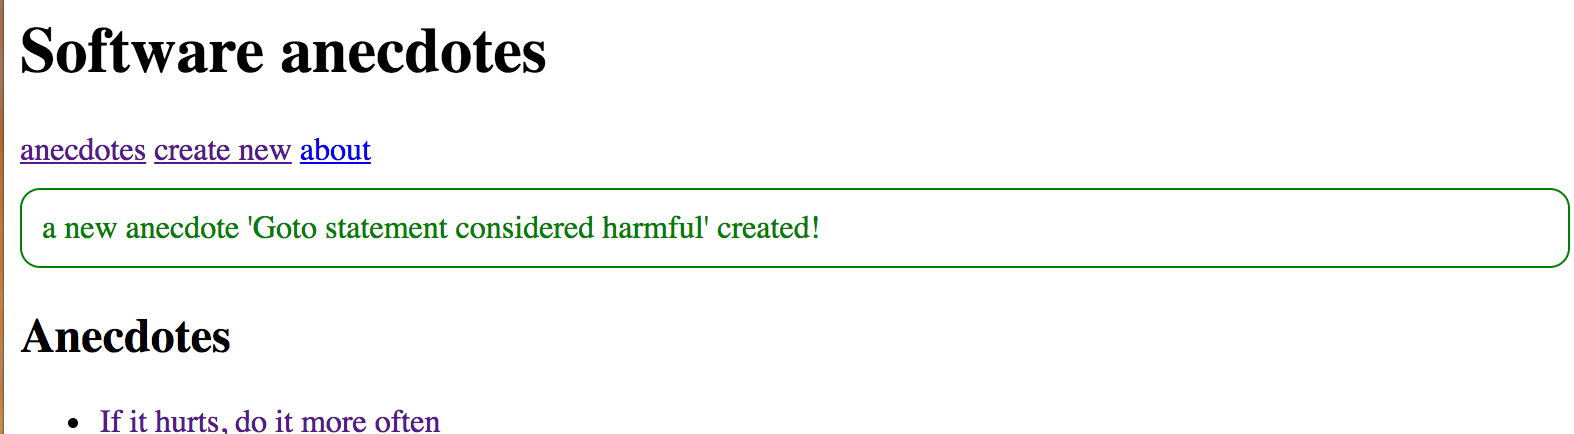
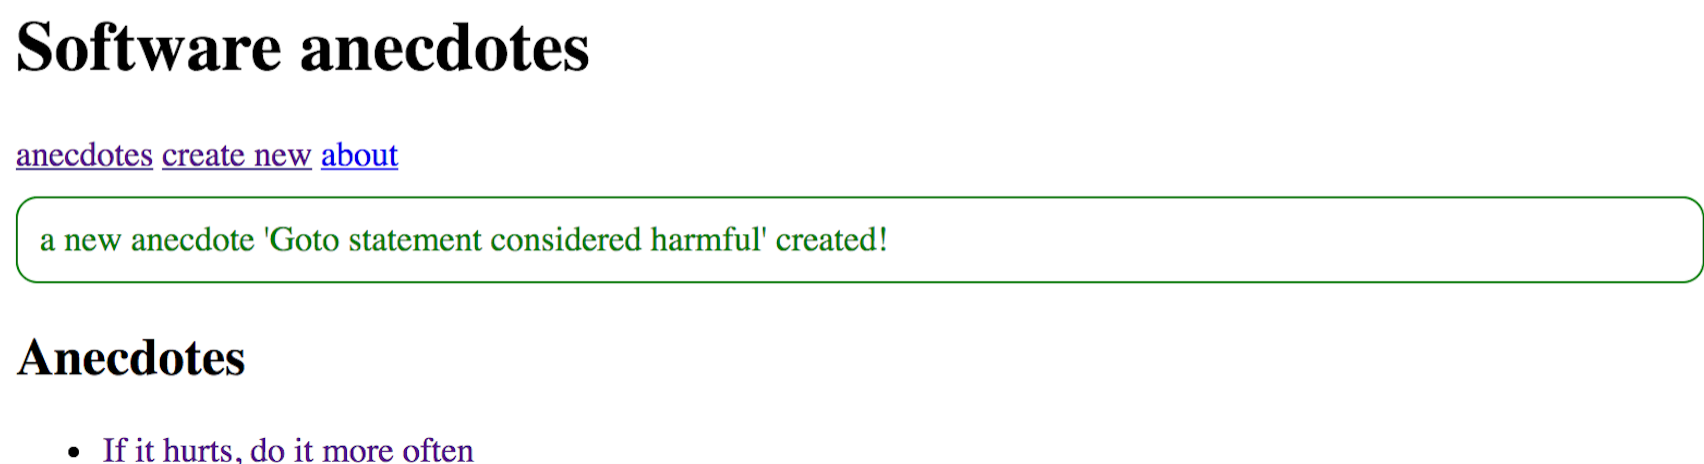
fixes

diff --git a/tehtavat.md b/tehtavat.md
@@ -1890,7 +1890,7 @@ Parannellaan edellisen tehtäväsarjan ulkoasua inlinetyylien avulla.
 
 #### 117 styled anecdotes, osa 1
 
-Tee notifikaatioista tyylikkäämpi, esim. seuraavaan tyyliin:
+Tee notifikaatioista tyylikkäämpi:
 
 ![]({{ "/assets/teht/45.png" | absolute_url }})
 
@@ -1900,13 +1900,15 @@ Googlaile tarvittaessa apua. Hyödyllisiä avainsanoja ovat ainakin _border_, _m
 
 #### 118 styled anecdotes, osa 2
 
-Paranna sovelluksen menun ulkoasua esim. seuraavasti
+Paranna menun ulkoasua esim. seuraavasti
 
 ![]({{ "/assets/teht/46.png" | absolute_url }})
 
+Kuten edellisessä tehtävässä, nytkin tyyli on vapaa.
+
 Jos haluat erotella aktiivisena olevan sivun linkin tyylin menussa, kannattaa vaihtaa käytössä oleva komponentti [Link](https://github.com/ReactTraining/react-router/blob/master/packages/react-router-dom/docs/api/Link.md) sen edistyksellisempään versioon, eli komponenttiin [NavLink](https://github.com/ReactTraining/react-router/blob/master/packages/react-router-dom/docs/api/NavLink.md).
 
-NavLink toimii Link-komponentin tavoin, mutamia käteviä lisäominaisuuksia kuten attribuutin [activeStyle](https://github.com/ReactTraining/react-router/blob/master/packages/react-router-dom/docs/api/NavLink.md#activestyle-object) onka kanssa useimmiten käytetään attribuuttia [exact](https://github.com/ReactTraining/react-router/blob/master/packages/react-router-dom/docs/api/NavLink.md#exact-bool).
+NavLink toimii Link-komponentin tavoin mutta sisältää muutamia käteviä lisäominaisuuksia kuten attribuutin [activeStyle](https://github.com/ReactTraining/react-router/blob/master/packages/react-router-dom/docs/api/NavLink.md#activestyle-object), jonka kanssa useimmiten käytetään attribuuttia [exact](https://github.com/ReactTraining/react-router/blob/master/packages/react-router-dom/docs/api/NavLink.md#exact-bool).
 
 ### ui-framework
 
